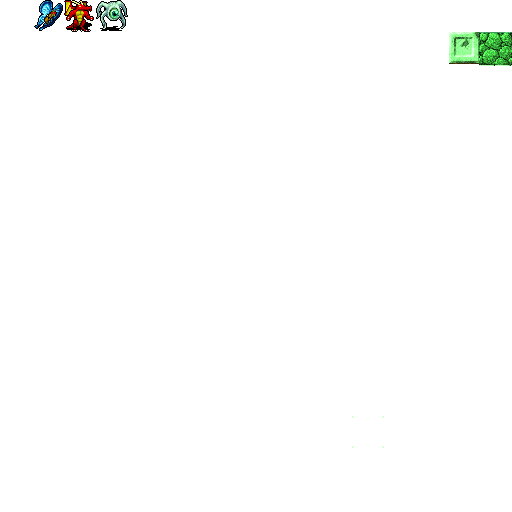
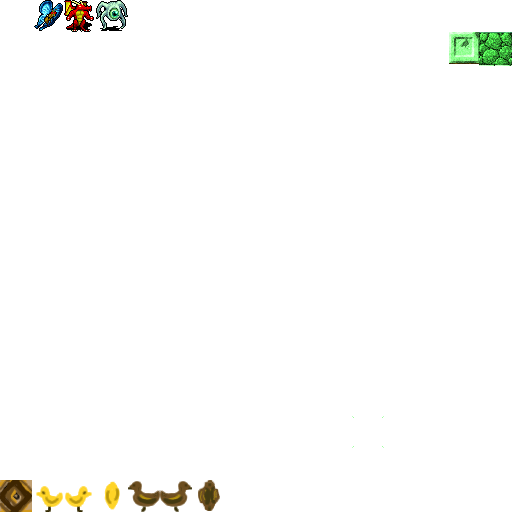
a little duck train

Changed region(s): [[0.0, 0.9375, 0.4375, 1.0]]

diff --git a/wild-mongoose-chase/src/wmc/player.rs b/wild-mongoose-chase/src/wmc/player.rs
@@ -27,6 +27,7 @@ impl Segment {
     }
 
     pub fn update_direction(&mut self, previous: &Segment) {
+        // move according to direction now
         match self.direction_now {
             Direction::Left => self.x -= 1,
             Direction::Right => self.x += 1,
@@ -80,13 +81,13 @@ impl Player {
 
     pub fn render(&mut self, ctx: &mut BTerm) {
         let mut glyph_idx = match self.direction {
-            Direction::Left => 17,
-            Direction::Right => 16,
-            Direction::Up => 4,
-            Direction::Down => 4,
-            _ => 16,
+            Direction::Left => 244,
+            Direction::Right => 245,
+            Direction::Up => 246,
+            Direction::Down => 246,
+            _ => 244,
         };
-
+        // player select override?
         if let Some(symbol) = self.symbol {
             glyph_idx = symbol;
         }
@@ -105,6 +106,13 @@ impl Player {
             glyph_idx,
         );
         for segment in self.segments.clone().iter().skip(1) {
+            let glyph_seg_idx = match segment.direction_now {
+                Direction::Left => 241,
+                Direction::Right => 242,
+                Direction::Up => 243,
+                Direction::Down => 243,
+                _ => 241,
+        };
             ctx.set_fancy(
                 PointF::new(segment.x as f32, segment.y as f32),
                 1,
@@ -112,7 +120,7 @@ impl Player {
                 PointF::new(1.0, 1.0),
                 WHITE,
                 DARK_GRAY,
-                7, //glyph_idx, //0 as u16, //self.symbol //DRAGON_FRAMES[self.frame]
+                glyph_seg_idx, //glyph_idx, //0 as u16, //self.symbol //DRAGON_FRAMES[self.frame]
             );
         }
         ctx.set_active_console(0);
@@ -159,7 +167,7 @@ impl Player {
         self.segments.push(Segment {
             x: next_seg_x,
             y: next_seg_y,
-            direction_next: Direction::Stopped,
+            direction_next: self.segments.last().unwrap().direction_now,
             direction_now: Direction::Stopped,
             glyph: 3,
         })
